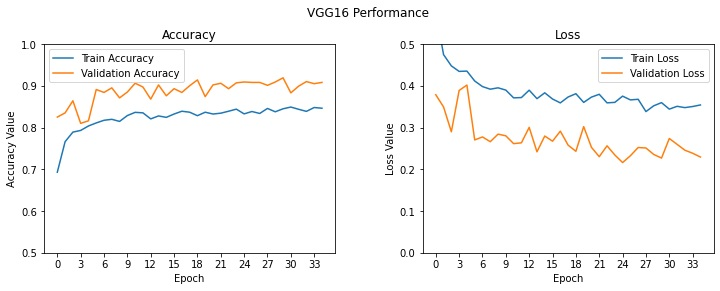
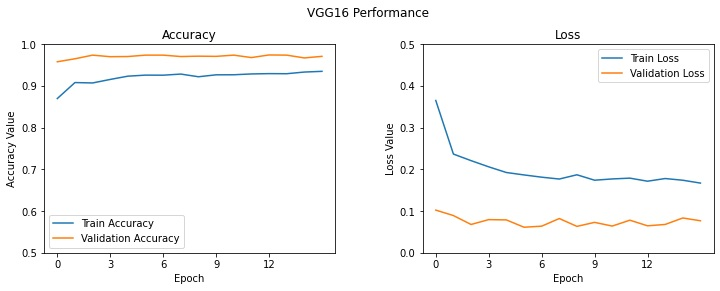
change model

diff --git a/00_Main_Page_🏡.py b/00_Main_Page_🏡.py
@@ -1,7 +1,7 @@
 import streamlit as st
 import tensorflow as tf
 from keras.models import load_model
-from keras.utils import img_to_array
+from keras.preprocessing.image import img_to_array
 from PIL import Image
 
 IMAGE_DIM = (150, 150)

diff --git a/README.md b/README.md
@@ -15,9 +15,9 @@ Bu proje AI Summer Camp'22 kapsamında geliştirdiğimiz ikinci projedir. Bu pro
 - Bu aşamada ilk olarak train, test ve validation klasörlerindeki dosyaları farklı listelere dosya isimlerini ekledik.
 - Dosyaları ismine göre tek tek okuyarak fotoğrafları arraylere çeviriyoruz.
 - Sonrasında arraydeki verileri normalize ettik.
-- VGG16 modelini base model olarak aldık ve üzerine birkaç adım daha ekleyerek modelimizi oluşturduk.
+- Inception ResNet V2 modelini base model olarak aldık ve üzerine birkaç adım daha ekleyerek modelimizi oluşturduk.
 - Sonrasında modeli eğittik.
-- Test veri setiyle bir tahmin yapıp sonuçlarını aldık.
+- Test veri setiyle bir tahminleme yapıp sonuçlarını aldık.
 
 ## Perfromans
 - Bu sonuçları NVIDIA RTX A6000 ekran kartına sahip Windows bir makine kullanarak elde ettik.
@@ -30,16 +30,16 @@ Bu proje AI Summer Camp'22 kapsamında geliştirdiğimiz ikinci projedir. Bu pro
 
 |            | Pred Cat | Pred Dog |
 | ---------- | -------- | -------- |
-| Actual Cat | 1630     | 203      |
-| Actual Dog | 158      | 1758     |
+| Actual Cat | 1825     | 88       |
+| Actual Dog | 28       | 1808     |
 
 ### Classification Report
 - Bu tablodaki sonuçları test veri seti ile elde ettik.
 
 |     | Precision | Recall | F1-Score |
 | --- | --------- | ------ | -------- |
-| Cat | 0.91      | 0.89   | 0.90     |
-| Dog | 0.90      | 0.92   | 0.91     |
+| Cat | 0.98      | 0.95   | 0.97     |
+| Dog | 0.95      | 0.98   | 0.97     |
 
 
 
